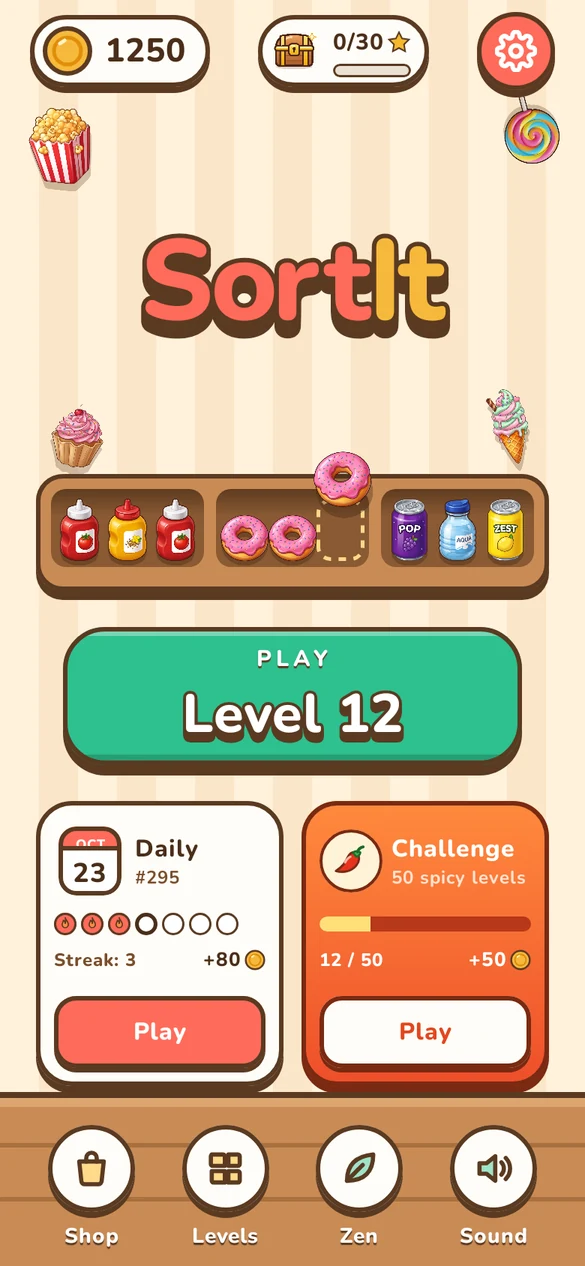
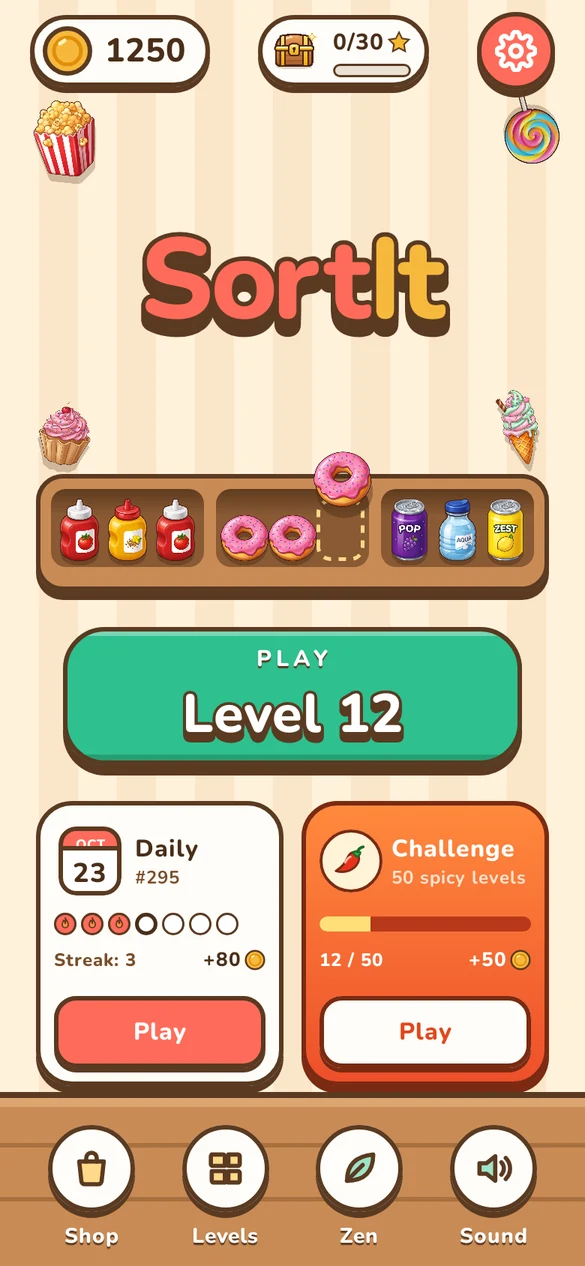
iOS beta: TestFlight link on landing, /get and /beta

diff --git a/sortit/beta/index.html b/sortit/beta/index.html
@@ -35,12 +35,18 @@
   <p>Пара нажатий — и иногда заходи поиграть в течение 14 дней. Не удаляй игру, пожалуйста: так Google разрешит её выпустить. Спасибо!</p>
   <p class="stores"><a class="btn" href="https://play.google.com/apps/testing/com.migisweetlab.sortit" rel="noopener"><svg viewBox="0 0 24 24" fill="currentColor" aria-hidden="true"><path d="M4 2.6c-.3.3-.4.7-.4 1.2v16.4c0 .5.1.9.4 1.2l9.2-9.4L4 2.6zm10.4 8.2 2.7-2.7L6.3 2c-.4-.2-.8-.3-1.1-.2l9.2 9zm0 2.4-9.2 9c.3.1.7 0 1.1-.2l10.8-6.1-2.7-2.7zm3.9-4.4-3 3 3 3 3.3-1.9c.9-.5.9-1.8 0-2.3l-3.3-1.8z"/></svg><span><small class="n1">Шаг 1</small>Стать тестировщиком</span></a></p>
   <p class="stores"><a class="btn" href="https://play.google.com/store/apps/details?id=com.migisweetlab.sortit" rel="noopener"><svg viewBox="0 0 24 24" fill="currentColor" aria-hidden="true"><path d="M4 2.6c-.3.3-.4.7-.4 1.2v16.4c0 .5.1.9.4 1.2l9.2-9.4L4 2.6zm10.4 8.2 2.7-2.7L6.3 2c-.4-.2-.8-.3-1.1-.2l9.2 9zm0 2.4-9.2 9c.3.1.7 0 1.1-.2l10.8-6.1-2.7-2.7zm3.9-4.4-3 3 3 3 3.3-1.9c.9-.5.9-1.8 0-2.3l-3.3-1.8z"/></svg><span><small class="n-install">Шаг 2</small>Установить из Google Play</span></a></p>
+  <h2 style="margin-top:28px">На iPhone</h2>
+  <p>Открой ссылку на iPhone, поставь TestFlight и нажми «Принять» → «Установить».</p>
+  <p class="stores"><a class="btn" href="https://testflight.apple.com/join/M5Xz6TdV" rel="noopener"><svg viewBox="0 0 24 24" fill="currentColor" aria-hidden="true"><path d="M16.4 12.6c0-2.4 2-3.5 2-3.6-1.1-1.6-2.8-1.8-3.4-1.8-1.4-.2-2.8.8-3.5.8-.7 0-1.8-.8-3-.8-1.5 0-3 .9-3.8 2.3-1.6 2.8-.4 7 1.2 9.3.8 1.1 1.7 2.4 2.9 2.3 1.2 0 1.6-.7 3-.7s1.8.7 3 .7c1.3 0 2.1-1.1 2.8-2.3.9-1.3 1.3-2.6 1.3-2.6s-2.5-1-2.5-3.6zM14.2 5.6c.6-.8 1.1-1.9 1-3-1 0-2.1.7-2.8 1.5-.6.7-1.1 1.8-1 2.9 1 .1 2.1-.6 2.8-1.4z"/></svg><span><small>Бета для iPhone</small>TestFlight</span></a></p>
   <p style="font-size:14px;opacity:.75">Если Google Play пишет, что приложение недоступно, — напиши мне, я добавлю твою почту Gmail в список тестировщиков.</p>
   <hr id="en" style="border:none;border-top:2px solid var(--line);margin:34px 0 10px">
   <h1 style="font-size:30px">Help me test SortIt</h1>
   <p>A couple of taps — then play now and then for 14 days. Please don't uninstall it: that's how Google lets the game go live. Thank you!</p>
   <p class="stores"><a class="btn" href="https://play.google.com/apps/testing/com.migisweetlab.sortit" rel="noopener"><svg viewBox="0 0 24 24" fill="currentColor" aria-hidden="true"><path d="M4 2.6c-.3.3-.4.7-.4 1.2v16.4c0 .5.1.9.4 1.2l9.2-9.4L4 2.6zm10.4 8.2 2.7-2.7L6.3 2c-.4-.2-.8-.3-1.1-.2l9.2 9zm0 2.4-9.2 9c.3.1.7 0 1.1-.2l10.8-6.1-2.7-2.7zm3.9-4.4-3 3 3 3 3.3-1.9c.9-.5.9-1.8 0-2.3l-3.3-1.8z"/></svg><span><small class="n1">Step 1</small>Become a tester</span></a></p>
   <p class="stores"><a class="btn" href="https://play.google.com/store/apps/details?id=com.migisweetlab.sortit" rel="noopener"><svg viewBox="0 0 24 24" fill="currentColor" aria-hidden="true"><path d="M4 2.6c-.3.3-.4.7-.4 1.2v16.4c0 .5.1.9.4 1.2l9.2-9.4L4 2.6zm10.4 8.2 2.7-2.7L6.3 2c-.4-.2-.8-.3-1.1-.2l9.2 9zm0 2.4-9.2 9c.3.1.7 0 1.1-.2l10.8-6.1-2.7-2.7zm3.9-4.4-3 3 3 3 3.3-1.9c.9-.5.9-1.8 0-2.3l-3.3-1.8z"/></svg><span><small class="n-install">Step 2</small>Install from Google Play</span></a></p>
+  <h2 style="margin-top:28px">On iPhone</h2>
+  <p>Open the link on your iPhone, get TestFlight, then tap Accept → Install.</p>
+  <p class="stores"><a class="btn" href="https://testflight.apple.com/join/M5Xz6TdV" rel="noopener"><svg viewBox="0 0 24 24" fill="currentColor" aria-hidden="true"><path d="M16.4 12.6c0-2.4 2-3.5 2-3.6-1.1-1.6-2.8-1.8-3.4-1.8-1.4-.2-2.8.8-3.5.8-.7 0-1.8-.8-3-.8-1.5 0-3 .9-3.8 2.3-1.6 2.8-.4 7 1.2 9.3.8 1.1 1.7 2.4 2.9 2.3 1.2 0 1.6-.7 3-.7s1.8.7 3 .7c1.3 0 2.1-1.1 2.8-2.3.9-1.3 1.3-2.6 1.3-2.6s-2.5-1-2.5-3.6zM14.2 5.6c.6-.8 1.1-1.9 1-3-1 0-2.1.7-2.8 1.5-.6.7-1.1 1.8-1 2.9 1 .1 2.1-.6 2.8-1.4z"/></svg><span><small>iPhone beta</small>TestFlight</span></a></p>
   <p style="font-size:14px;opacity:.75">If Google Play says the app isn't available, message me and I'll add your Gmail to the tester list.</p>
 </article>
 

diff --git a/sortit/get/index.html b/sortit/get/index.html
@@ -19,7 +19,7 @@
 <link rel="stylesheet" href="../../assets/style.css">
 <script>
 (function () {
-  var APP_STORE = '', PLAY = 'https://play.google.com/store/apps/details?id=com.migisweetlab.sortit', PT = '';
+  var APP_STORE = '', PLAY = 'https://play.google.com/store/apps/details?id=com.migisweetlab.sortit', PT = '', TF = 'https://testflight.apple.com/join/M5Xz6TdV';
   var ua = navigator.userAgent || "";
   // iPadOS 13+ представляется Маком: отличаем по сенсорному экрану
   var ios = /iPhone|iPad|iPod/.test(ua) || (/Macintosh/.test(ua) && navigator.maxTouchPoints > 0);
@@ -32,6 +32,8 @@
   } else if (ios && APP_STORE) {
     url = APP_STORE;
     if (PT) url += (url.indexOf("?") < 0 ? "?" : "&") + "pt=" + PT + "&ct=" + src + "&mt=8";
+  } else if (ios && TF) {
+    url = TF;
   }
   if (url) { document.documentElement.className += " redirecting"; location.replace(url); }
 })();
@@ -53,8 +55,8 @@
   <h1>Play SortIt</h1>
   <p class="tag">Sort the shelves. Match three. Relax.</p>
   <p>A cozy goods-sorting puzzle with a new Daily level every day. No ads, no in-app purchases, plays offline.</p>
-  <div class="stores" style="justify-content:center"><span class="btn soon" title="Coming soon"><svg viewBox="0 0 24 24" fill="currentColor" aria-hidden="true"><path d="M16.4 12.6c0-2.4 2-3.5 2-3.6-1.1-1.6-2.8-1.8-3.4-1.8-1.4-.2-2.8.8-3.5.8-.7 0-1.8-.8-3-.8-1.5 0-3 .9-3.8 2.3-1.6 2.8-.4 7 1.2 9.3.8 1.1 1.7 2.4 2.9 2.3 1.2 0 1.6-.7 3-.7s1.8.7 3 .7c1.3 0 2.1-1.1 2.8-2.3.9-1.3 1.3-2.6 1.3-2.6s-2.5-1-2.5-3.6zM14.2 5.6c.6-.8 1.1-1.9 1-3-1 0-2.1.7-2.8 1.5-.6.7-1.1 1.8-1 2.9 1 .1 2.1-.6 2.8-1.4z"/></svg><span><small>Download on the</small>App Store</span></span><a class="btn" href="https://play.google.com/store/apps/details?id=com.migisweetlab.sortit" rel="noopener"><svg viewBox="0 0 24 24" fill="currentColor" aria-hidden="true"><path d="M4 2.6c-.3.3-.4.7-.4 1.2v16.4c0 .5.1.9.4 1.2l9.2-9.4L4 2.6zm10.4 8.2 2.7-2.7L6.3 2c-.4-.2-.8-.3-1.1-.2l9.2 9zm0 2.4-9.2 9c.3.1.7 0 1.1-.2l10.8-6.1-2.7-2.7zm3.9-4.4-3 3 3 3 3.3-1.9c.9-.5.9-1.8 0-2.3l-3.3-1.8z"/></svg><span><small>Get it on</small>Google Play</span></a></div>
-  <p style="margin-top:14px;font-size:14px">Coming soon to iPhone and Android.</p>
+  <div class="stores" style="justify-content:center"><a class="btn" href="https://testflight.apple.com/join/M5Xz6TdV" rel="noopener"><svg viewBox="0 0 24 24" fill="currentColor" aria-hidden="true"><path d="M16.4 12.6c0-2.4 2-3.5 2-3.6-1.1-1.6-2.8-1.8-3.4-1.8-1.4-.2-2.8.8-3.5.8-.7 0-1.8-.8-3-.8-1.5 0-3 .9-3.8 2.3-1.6 2.8-.4 7 1.2 9.3.8 1.1 1.7 2.4 2.9 2.3 1.2 0 1.6-.7 3-.7s1.8.7 3 .7c1.3 0 2.1-1.1 2.8-2.3.9-1.3 1.3-2.6 1.3-2.6s-2.5-1-2.5-3.6zM14.2 5.6c.6-.8 1.1-1.9 1-3-1 0-2.1.7-2.8 1.5-.6.7-1.1 1.8-1 2.9 1 .1 2.1-.6 2.8-1.4z"/></svg><span><small>iPhone beta on</small>TestFlight</span></a><a class="btn" href="https://play.google.com/store/apps/details?id=com.migisweetlab.sortit" rel="noopener"><svg viewBox="0 0 24 24" fill="currentColor" aria-hidden="true"><path d="M4 2.6c-.3.3-.4.7-.4 1.2v16.4c0 .5.1.9.4 1.2l9.2-9.4L4 2.6zm10.4 8.2 2.7-2.7L6.3 2c-.4-.2-.8-.3-1.1-.2l9.2 9zm0 2.4-9.2 9c.3.1.7 0 1.1-.2l10.8-6.1-2.7-2.7zm3.9-4.4-3 3 3 3 3.3-1.9c.9-.5.9-1.8 0-2.3l-3.3-1.8z"/></svg><span><small>Get it on</small>Google Play</span></a></div>
+  
   <p style="margin-top:18px;font-size:14px"><a href="../../">More about the game</a></p>
 </section>
 

diff --git a/index.html b/index.html
@@ -36,8 +36,8 @@
     <p>A cozy goods-sorting puzzle: tap items on the shelves and put three of a kind together to clear them.
     500 levels, 500 relaxing Zen levels without a timer, a new Daily level every day
     and 100 spicy Challenge levels — all playable offline.</p>
-    <div class="stores"><span class="btn soon" title="Coming soon"><svg viewBox="0 0 24 24" fill="currentColor" aria-hidden="true"><path d="M16.4 12.6c0-2.4 2-3.5 2-3.6-1.1-1.6-2.8-1.8-3.4-1.8-1.4-.2-2.8.8-3.5.8-.7 0-1.8-.8-3-.8-1.5 0-3 .9-3.8 2.3-1.6 2.8-.4 7 1.2 9.3.8 1.1 1.7 2.4 2.9 2.3 1.2 0 1.6-.7 3-.7s1.8.7 3 .7c1.3 0 2.1-1.1 2.8-2.3.9-1.3 1.3-2.6 1.3-2.6s-2.5-1-2.5-3.6zM14.2 5.6c.6-.8 1.1-1.9 1-3-1 0-2.1.7-2.8 1.5-.6.7-1.1 1.8-1 2.9 1 .1 2.1-.6 2.8-1.4z"/></svg><span><small>Download on the</small>App Store</span></span><a class="btn" href="https://play.google.com/store/apps/details?id=com.migisweetlab.sortit" rel="noopener"><svg viewBox="0 0 24 24" fill="currentColor" aria-hidden="true"><path d="M4 2.6c-.3.3-.4.7-.4 1.2v16.4c0 .5.1.9.4 1.2l9.2-9.4L4 2.6zm10.4 8.2 2.7-2.7L6.3 2c-.4-.2-.8-.3-1.1-.2l9.2 9zm0 2.4-9.2 9c.3.1.7 0 1.1-.2l10.8-6.1-2.7-2.7zm3.9-4.4-3 3 3 3 3.3-1.9c.9-.5.9-1.8 0-2.3l-3.3-1.8z"/></svg><span><small>Get it on</small>Google Play</span></a></div>
-    <p style="margin-top:14px;font-size:14px">Coming soon to iPhone and Android.</p>
+    <div class="stores"><a class="btn" href="https://testflight.apple.com/join/M5Xz6TdV" rel="noopener"><svg viewBox="0 0 24 24" fill="currentColor" aria-hidden="true"><path d="M16.4 12.6c0-2.4 2-3.5 2-3.6-1.1-1.6-2.8-1.8-3.4-1.8-1.4-.2-2.8.8-3.5.8-.7 0-1.8-.8-3-.8-1.5 0-3 .9-3.8 2.3-1.6 2.8-.4 7 1.2 9.3.8 1.1 1.7 2.4 2.9 2.3 1.2 0 1.6-.7 3-.7s1.8.7 3 .7c1.3 0 2.1-1.1 2.8-2.3.9-1.3 1.3-2.6 1.3-2.6s-2.5-1-2.5-3.6zM14.2 5.6c.6-.8 1.1-1.9 1-3-1 0-2.1.7-2.8 1.5-.6.7-1.1 1.8-1 2.9 1 .1 2.1-.6 2.8-1.4z"/></svg><span><small>iPhone beta on</small>TestFlight</span></a><a class="btn" href="https://play.google.com/store/apps/details?id=com.migisweetlab.sortit" rel="noopener"><svg viewBox="0 0 24 24" fill="currentColor" aria-hidden="true"><path d="M4 2.6c-.3.3-.4.7-.4 1.2v16.4c0 .5.1.9.4 1.2l9.2-9.4L4 2.6zm10.4 8.2 2.7-2.7L6.3 2c-.4-.2-.8-.3-1.1-.2l9.2 9zm0 2.4-9.2 9c.3.1.7 0 1.1-.2l10.8-6.1-2.7-2.7zm3.9-4.4-3 3 3 3 3.3-1.9c.9-.5.9-1.8 0-2.3l-3.3-1.8z"/></svg><span><small>Get it on</small>Google Play</span></a></div>
+    
   </div>
   <div class="phone-pair" aria-hidden="true">
     <div class="phone a"><img src="assets/shot-home.webp" alt="" width="585" height="1266"></div>

diff --git a/build.py b/build.py
@@ -100,7 +100,7 @@ APP_STORE_PT = ""
 EMAIL = "migisweetlab@gmail.com"
 # Закрытое тестирование Google Play: по этой ссылке тестер нажимает «Стать тестировщиком».
 PLAY_TESTING_URL = "https://play.google.com/apps/testing/com.migisweetlab.sortit"
-TESTFLIGHT_URL = ""  # публичная ссылка TestFlight, когда появится iOS-бета
+TESTFLIGHT_URL = "https://testflight.apple.com/join/M5Xz6TdV"  # публичная ссылка TestFlight (iOS-бета), пока нет APP_STORE_URL
 SITE = "https://migisweetlab.com"
 
 APPLE_SVG = '<svg viewBox="0 0 24 24" fill="currentColor" aria-hidden="true"><path d="M16.4 12.6c0-2.4 2-3.5 2-3.6-1.1-1.6-2.8-1.8-3.4-1.8-1.4-.2-2.8.8-3.5.8-.7 0-1.8-.8-3-.8-1.5 0-3 .9-3.8 2.3-1.6 2.8-.4 7 1.2 9.3.8 1.1 1.7 2.4 2.9 2.3 1.2 0 1.6-.7 3-.7s1.8.7 3 .7c1.3 0 2.1-1.1 2.8-2.3.9-1.3 1.3-2.6 1.3-2.6s-2.5-1-2.5-3.6zM14.2 5.6c.6-.8 1.1-1.9 1-3-1 0-2.1.7-2.8 1.5-.6.7-1.1 1.8-1 2.9 1 .1 2.1-.6 2.8-1.4z"/></svg>'
@@ -157,6 +157,16 @@ def store_btn(url, svg, small, big):
     if url:
         return f'<a class="btn" href="{url}" rel="noopener">{inner}</a>'
     return f'<span class="btn soon" title="Coming soon">{inner}</span>'
+
+
+def ios_btn():
+    """App Store, если игра уже там; до этого — бета в TestFlight (значок «Download on the App Store»
+    Apple разрешает только для опубликованных приложений); иначе «Скоро»."""
+    if APP_STORE_URL:
+        return store_btn(APP_STORE_URL, APPLE_SVG, "Download on the", "App Store")
+    if TESTFLIGHT_URL:
+        return store_btn(TESTFLIGHT_URL, APPLE_SVG, "iPhone beta on", "TestFlight")
+    return store_btn("", APPLE_SVG, "Download on the", "App Store")
 
 
 def page(title, desc, body, path, lang="en", head=""):
@@ -220,9 +230,8 @@ def write(path, html):
 
 def landing():
     c = level_counts()
-    stores = (store_btn(APP_STORE_URL, APPLE_SVG, "Download on the", "App Store")
-              + store_btn(GOOGLE_PLAY_URL, PLAY_SVG, "Get it on", "Google Play"))
-    soon = "" if (APP_STORE_URL and GOOGLE_PLAY_URL) else '<p style="margin-top:14px;font-size:14px">Coming soon to iPhone and Android.</p>'
+    stores = ios_btn() + store_btn(GOOGLE_PLAY_URL, PLAY_SVG, "Get it on", "Google Play")
+    soon = "" if ((APP_STORE_URL or TESTFLIGHT_URL) and GOOGLE_PLAY_URL) else '<p style="margin-top:14px;font-size:14px">Coming soon to iPhone and Android.</p>'
     body = f"""
 <section class="hero">
   <div>
@@ -279,7 +288,7 @@ def get_page():
     """
     script = f"""<script>
 (function () {{
-  var APP_STORE = {APP_STORE_URL!r}, PLAY = {GOOGLE_PLAY_URL!r}, PT = {APP_STORE_PT!r};
+  var APP_STORE = {APP_STORE_URL!r}, PLAY = {GOOGLE_PLAY_URL!r}, PT = {APP_STORE_PT!r}, TF = {TESTFLIGHT_URL!r};
   var ua = navigator.userAgent || "";
   // iPadOS 13+ представляется Маком: отличаем по сенсорному экрану
   var ios = /iPhone|iPad|iPod/.test(ua) || (/Macintosh/.test(ua) && navigator.maxTouchPoints > 0);
@@ -292,15 +301,16 @@ def get_page():
   }} else if (ios && APP_STORE) {{
     url = APP_STORE;
     if (PT) url += (url.indexOf("?") < 0 ? "?" : "&") + "pt=" + PT + "&ct=" + src + "&mt=8";
+  }} else if (ios && TF) {{
+    url = TF;
   }}
   if (url) {{ document.documentElement.className += " redirecting"; location.replace(url); }}
 }})();
 </script>
 <style>.redirecting .get-hero {{ visibility: hidden; }}</style>
 """
-    stores = (store_btn(APP_STORE_URL, APPLE_SVG, "Download on the", "App Store")
-              + store_btn(GOOGLE_PLAY_URL, PLAY_SVG, "Get it on", "Google Play"))
-    soon = "" if (APP_STORE_URL and GOOGLE_PLAY_URL) else '<p style="margin-top:14px;font-size:14px">Coming soon to iPhone and Android.</p>'
+    stores = ios_btn() + store_btn(GOOGLE_PLAY_URL, PLAY_SVG, "Get it on", "Google Play")
+    soon = "" if ((APP_STORE_URL or TESTFLIGHT_URL) and GOOGLE_PLAY_URL) else '<p style="margin-top:14px;font-size:14px">Coming soon to iPhone and Android.</p>'
     body = f"""
 <section class="hero get-hero" style="text-align:center;display:block">
   <img class="app-icon" style="margin-left:auto;margin-right:auto" src="../../assets/icon-512.png" alt="SortIt app icon" width="104" height="104">
@@ -337,6 +347,12 @@ def beta_page():
             "  " + step("n1", "Шаг 1" if ru else "Step 1", "Стать тестировщиком" if ru else "Become a tester", PLAY_TESTING_URL),
             "  " + step("n-install", "Шаг 2" if ru else "Step 2", "Установить из Google Play" if ru else "Install from Google Play",
                         GOOGLE_PLAY_URL),
+            ('  <h2 style="margin-top:28px">' + ("На iPhone" if ru else "On iPhone") + "</h2>\n"
+             + "  <p>" + ("Открой ссылку на iPhone, поставь TestFlight и нажми «Принять» → «Установить»." if ru
+                          else "Open the link on your iPhone, get TestFlight, then tap Accept → Install.") + "</p>\n"
+             + f'  <p class="stores"><a class="btn" href="{TESTFLIGHT_URL}" rel="noopener">{APPLE_SVG}'
+             + "<span><small>" + ("Бета для iPhone" if ru else "iPhone beta") + "</small>TestFlight</span></a></p>"
+             if TESTFLIGHT_URL else ""),
             '  <p style="font-size:14px;opacity:.75">' + ("Если Google Play пишет, что приложение недоступно, — напиши мне, я добавлю твою почту Gmail в список тестировщиков." if ru
                       else "If Google Play says the app isn't available, message me and I'll add your Gmail to the tester list.") + "</p>",
         ])
